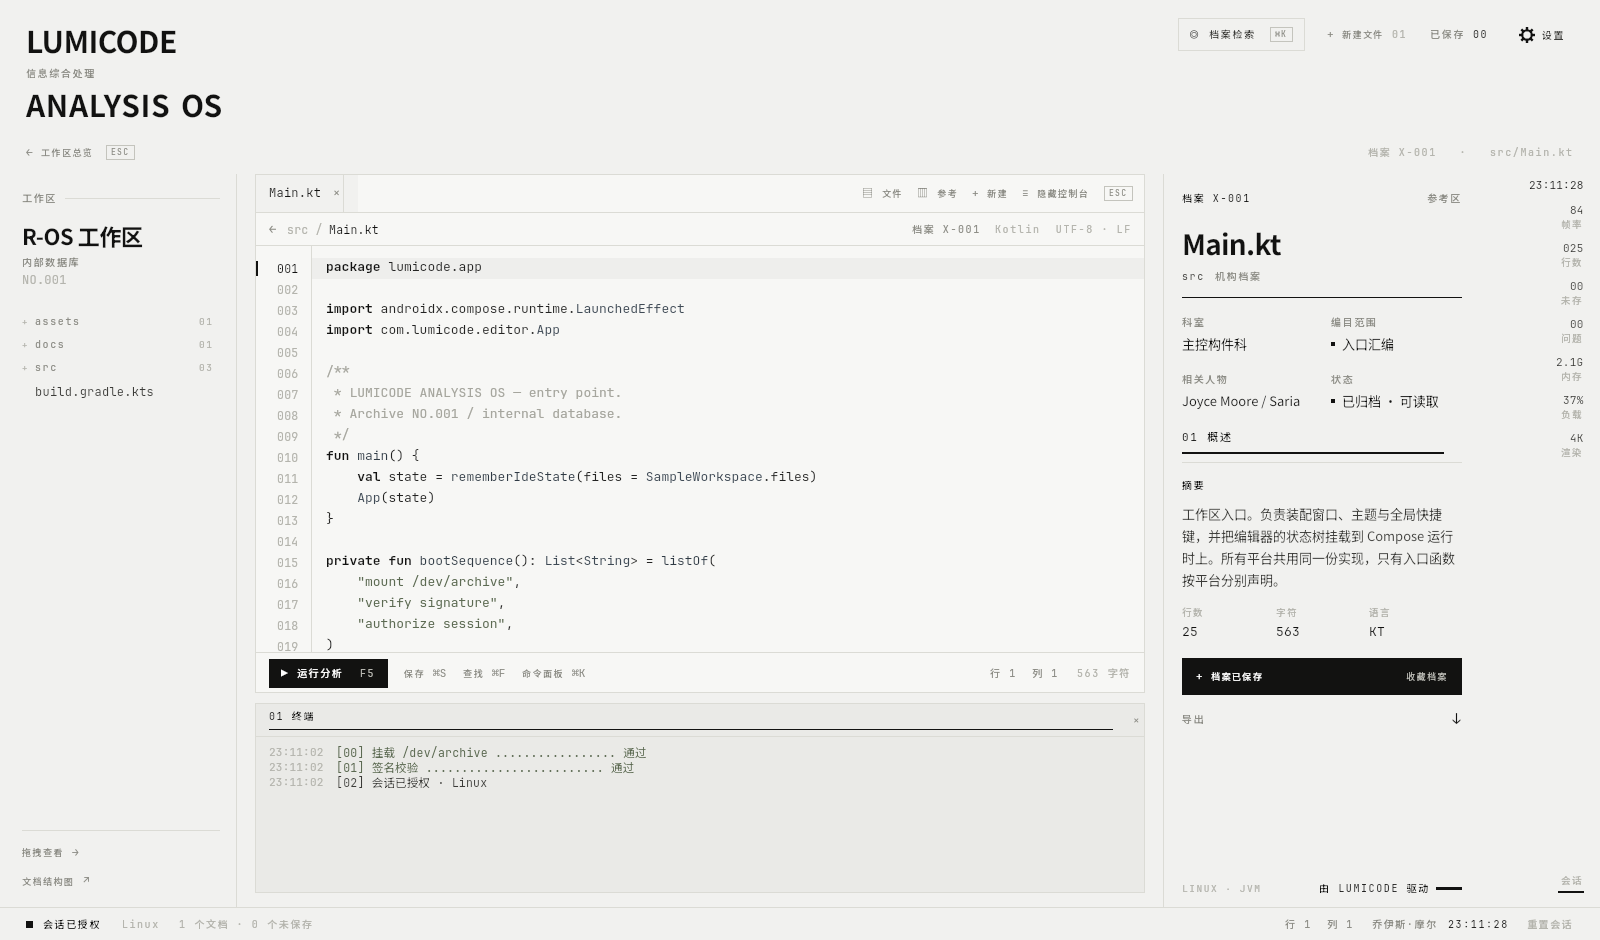
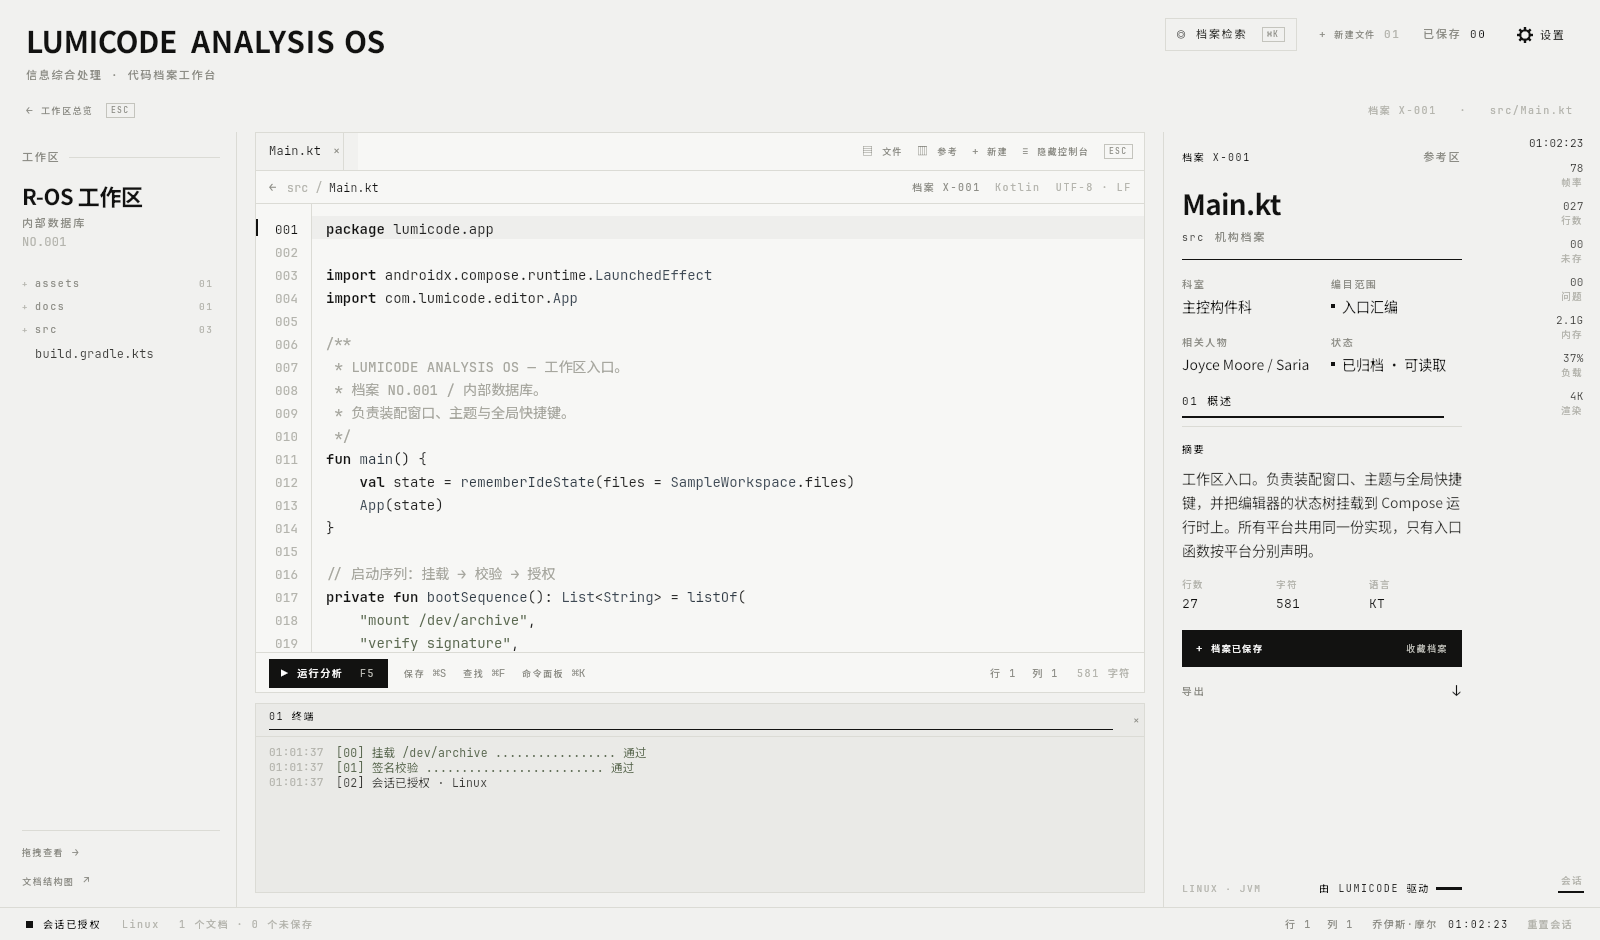
fix(ui): 行高亮内代码垂直居中、方向键越界自动滚动、字号再上调、双标题同行
1. 代码行在行框内居中（LineHeightStyle.Alignment.Center，行号栏同步）——
   之前行高(字号+9)大于字体自身行高时，字形贴行框上沿，看起来像上对齐
2. 光标被上下键/输入移出可视区时自动滚动，光标行始终可见
3. 字号整体再上调一档：代码默认 14sp（可调 12–22sp）、标签 11sp、等宽 13sp、
   遥测栏 12sp、状态栏 11sp、正文 14sp
4. 报头两个大标题合并为同一行 LUMICODE ANALYSIS OS（窄屏同步收窄间距）
5. publish-web.sh 补齐会话总线变量，非登录 shell 下也能重启用户服务
6. 文档截图全部按新样式重拍

diff --git a/composeApp/src/commonMain/kotlin/com/lumicode/editor/ui/TopBar.kt b/composeApp/src/commonMain/kotlin/com/lumicode/editor/ui/TopBar.kt
@@ -53,29 +53,36 @@ fun TopBar(
         verticalAlignment = Alignment.Top,
     ) {
         Column {
-            BasicText(
-                text = "LUMICODE",
-                style = RlType.title.copy(fontSize = if (compact) 22.sp else 30.sp, lineHeight = if (compact) 22.sp else 30.sp),
-            )
-            if (!compact) {
-                Spacer(Modifier.height(6.dp))
-                Label("信息综合处理")
-            }
-            Spacer(Modifier.height(2.dp))
+            // 两个标题放在同一行：LUMICODE ANALYSIS OS
             Row(verticalAlignment = Alignment.Bottom) {
+                BasicText(
+                    text = "LUMICODE",
+                    style = RlType.title.copy(
+                        fontSize = if (compact) 19.sp else 30.sp,
+                        lineHeight = if (compact) 21.sp else 31.sp,
+                    ),
+                )
+                HGap(if (compact) 7.dp else 14.dp)
                 BasicText(
                     text = "ANALYSIS",
                     style = RlType.title.copy(
-                        fontSize = if (compact) 22.sp else 30.sp,
-                        lineHeight = if (compact) 22.sp else 30.sp,
+                        fontSize = if (compact) 19.sp else 30.sp,
+                        lineHeight = if (compact) 21.sp else 31.sp,
                         letterSpacing = 0.02.em,
                     ),
                 )
-                HGap(if (compact) 6.dp else 10.dp)
+                HGap(if (compact) 4.dp else 8.dp)
                 BasicText(
                     text = "OS",
-                    style = RlType.title.copy(fontSize = if (compact) 22.sp else 30.sp, lineHeight = if (compact) 22.sp else 30.sp),
+                    style = RlType.title.copy(
+                        fontSize = if (compact) 19.sp else 30.sp,
+                        lineHeight = if (compact) 21.sp else 31.sp,
+                    ),
                 )
+            }
+            if (!compact) {
+                Spacer(Modifier.height(7.dp))
+                Label("信息综合处理 · 代码档案工作台")
             }
         }
 
@@ -99,25 +106,27 @@ fun TopBar(
                 BasicText("◎", style = RlType.mono.copy(fontSize = 13.sp, color = RlColors.Ink))
                 if (!compact) {
                     HGap(10.dp)
-                    Label("档案检索", style = RlType.label(10.sp, RlColors.InkSoft))
+                    Label("档案检索", style = RlType.label(11.sp, RlColors.InkSoft))
+                    HGap(14.dp)
+                    Chip(text = "⌘K")
                 }
-                HGap(14.dp)
-                Chip(text = "⌘K")
             }
             HGap(if (compact) 14.dp else 22.dp)
             GhostButton(text = if (compact) "" else "新建文件", glyph = "+", onClick = { state.newFile() })
-            HGap(8.dp)
-            LabelRaw(
-                text = state.openTabs.size.toString().padStart(2, '0'),
-                style = RlType.label(10.sp, RlColors.Faint),
-            )
+            if (!compact) {
+                HGap(8.dp)
+                LabelRaw(
+                    text = state.openTabs.size.toString().padStart(2, '0'),
+                    style = RlType.label(11.sp, RlColors.Faint),
+                )
+            }
             if (!compact) {
                 HGap(22.dp)
-                LabelRaw(text = "已保存", style = RlType.label(10.sp, RlColors.Muted))
+                LabelRaw(text = "已保存", style = RlType.label(11.sp, RlColors.Muted))
                 HGap(8.dp)
                 LabelRaw(
                     text = state.savedCount.toString().padStart(2, '0'),
-                    style = RlType.label(10.sp, RlColors.Ink),
+                    style = RlType.label(11.sp, RlColors.Ink),
                 )
             }
             HGap(if (compact) 14.dp else 22.dp)
@@ -135,7 +144,7 @@ fun TopBar(
                 GearIcon(size = 16.dp)
                 if (!compact) {
                     HGap(7.dp)
-                    Label("设置", style = RlType.label(10.sp, RlColors.InkSoft))
+                    Label("设置", style = RlType.label(11.sp, RlColors.InkSoft))
                 }
             }
         }

diff --git a/composeApp/src/commonMain/kotlin/com/lumicode/editor/ui/theme/RhineTheme.kt b/composeApp/src/commonMain/kotlin/com/lumicode/editor/ui/theme/RhineTheme.kt
@@ -6,6 +6,7 @@ import androidx.compose.runtime.setValue
 import androidx.compose.ui.graphics.Color
 import androidx.compose.ui.text.TextStyle
 import androidx.compose.ui.text.font.FontFamily
+import androidx.compose.ui.text.style.LineHeightStyle
 import androidx.compose.ui.text.font.FontWeight
 import androidx.compose.ui.unit.Dp
 import androidx.compose.ui.unit.TextUnit
@@ -47,14 +48,14 @@ object RlColors {
  */
 object RlSettings {
     /** 代码字号（sp），行高按它推算，保证行号与代码对齐。 */
-    var codeFontSize by mutableStateOf(13f)
+    var codeFontSize by mutableStateOf(14f)
     var tabWidth by mutableStateOf(4)
     var showLineNumbers by mutableStateOf(true)
     var showRail by mutableStateOf(true)
 
-    val codeLineHeight: Dp get() = (codeFontSize + 8f).dp
+    val codeLineHeight: Dp get() = (codeFontSize + 9f).dp
 
-    fun lineHeightSp(): Float = codeFontSize + 8f
+    fun lineHeightSp(): Float = codeFontSize + 9f
 }
 
 /**
@@ -102,8 +103,8 @@ object RlType {
     val body: TextStyle get() = TextStyle(
         fontFamily = Display,
         fontWeight = FontWeight.Normal,
-        fontSize = 13.sp,
-        lineHeight = 22.sp,
+        fontSize = 14.sp,
+        lineHeight = 24.sp,
         letterSpacing = 0.0.em,
         color = RlColors.InkSoft,
     )
@@ -111,13 +112,13 @@ object RlType {
     val bodySmall: TextStyle get() = TextStyle(
         fontFamily = Display,
         fontWeight = FontWeight.Normal,
-        fontSize = 11.5.sp,
-        lineHeight = 18.sp,
+        fontSize = 12.5.sp,
+        lineHeight = 19.sp,
         color = RlColors.InkSoft,
     )
 
     /** Micro label: uppercase, wide tracking, monospace — used everywhere as chrome. */
-    fun label(size: TextUnit = 10.sp, color: Color = RlColors.Muted) = TextStyle(
+    fun label(size: TextUnit = 11.sp, color: Color = RlColors.Muted) = TextStyle(
         fontFamily = Mono,
         fontWeight = FontWeight.Medium,
         fontSize = size,
@@ -129,7 +130,7 @@ object RlType {
     val value: TextStyle get() = TextStyle(
         fontFamily = Display,
         fontWeight = FontWeight.Medium,
-        fontSize = 13.sp,
+        fontSize = 14.sp,
         lineHeight = 16.sp,
         letterSpacing = 0.0.em,
         color = RlColors.Ink,
@@ -138,8 +139,8 @@ object RlType {
     val mono: TextStyle get() = TextStyle(
         fontFamily = Mono,
         fontWeight = FontWeight.Normal,
-        fontSize = 12.sp,
-        lineHeight = 17.sp,
+        fontSize = 13.sp,
+        lineHeight = 19.sp,
         letterSpacing = 0.02.em,
         color = RlColors.InkSoft,
     )
@@ -147,8 +148,8 @@ object RlType {
     val monoMicro: TextStyle get() = TextStyle(
         fontFamily = Mono,
         fontWeight = FontWeight.Normal,
-        fontSize = 10.sp,
-        lineHeight = 13.sp,
+        fontSize = 11.sp,
+        lineHeight = 15.sp,
         letterSpacing = 0.04.em,
         color = RlColors.Faint,
     )
@@ -158,6 +159,10 @@ object RlType {
         fontWeight = FontWeight.Normal,
         fontSize = RlSettings.codeFontSize.sp,
         lineHeight = RlSettings.lineHeightSp().sp,
+        lineHeightStyle = LineHeightStyle(
+            alignment = LineHeightStyle.Alignment.Center,
+            trim = LineHeightStyle.Trim.None,
+        ),
         letterSpacing = 0.0.em,
         color = RlColors.CodeDefault,
     )
@@ -167,6 +172,10 @@ object RlType {
         fontWeight = FontWeight.Normal,
         fontSize = (RlSettings.codeFontSize - 1.5f).sp,
         lineHeight = RlSettings.lineHeightSp().sp,
+        lineHeightStyle = LineHeightStyle(
+            alignment = LineHeightStyle.Alignment.Center,
+            trim = LineHeightStyle.Trim.None,
+        ),
         letterSpacing = 0.02.em,
         color = RlColors.Faint,
     )

diff --git a/composeApp/src/commonMain/kotlin/com/lumicode/editor/ui/CodeEditor.kt b/composeApp/src/commonMain/kotlin/com/lumicode/editor/ui/CodeEditor.kt
@@ -140,6 +140,20 @@ fun CodeEditor(
 
         val activeLine = SyntaxHighlighter.lineOf(value.text, value.selection.start) + 1
 
+        // 上下键（或输入）把光标移出可视区时自动滚动，保证光标行始终可见
+        val cursorLineIndex = SyntaxHighlighter.lineOf(value.text, value.selection.start)
+        val viewportHeightPx = with(density) { maxHeight.toPx() }
+        LaunchedEffect(cursorLineIndex, viewportHeightPx) {
+            val top = cursorLineIndex * lineHeightPx
+            val bottom = top + lineHeightPx
+            val scroll = verticalScroll.value.toFloat()
+            when {
+                top < scroll -> verticalScroll.scrollTo(top.toInt().coerceAtLeast(0))
+                bottom > scroll + viewportHeightPx ->
+                    verticalScroll.scrollTo((bottom - viewportHeightPx).toInt().coerceAtLeast(0))
+            }
+        }
+
         // 光标移动时：行高亮带与侧边标记平滑滑过去，而不是瞬间跳
         val lineOffset by animateDpAsState(
             targetValue = lineHeight * (activeLine - 1),

diff --git a/composeApp/src/commonMain/kotlin/com/lumicode/editor/ui/Overlay.kt b/composeApp/src/commonMain/kotlin/com/lumicode/editor/ui/Overlay.kt
@@ -380,8 +380,8 @@ private fun SettingsOverlay(state: IdeState, compact: Boolean) {
         StepperRow(
             label = "代码字号",
             hint = "当前 ${RlSettings.codeFontSize.toInt()} sp（行高自动跟随）",
-            onMinus = { RlSettings.codeFontSize = (RlSettings.codeFontSize - 1f).coerceAtLeast(11f) },
-            onPlus = { RlSettings.codeFontSize = (RlSettings.codeFontSize + 1f).coerceAtLeast(11f).coerceAtMost(20f) },
+            onMinus = { RlSettings.codeFontSize = (RlSettings.codeFontSize - 1f).coerceAtLeast(12f) },
+            onPlus = { RlSettings.codeFontSize = (RlSettings.codeFontSize + 1f).coerceAtLeast(12f).coerceAtMost(22f) },
         )
         ChoiceRow(
             label = "制表符宽度",

diff --git a/README.md b/README.md
@@ -53,6 +53,11 @@
 - **键盘焦点**：点击界面任意位置都会把键盘焦点交回外壳，避免某些情况下快捷键/ESC 失灵（浏览器端尤其明显）。
 - **动效**：光标换行时，当前行高亮带与左侧行号栏的高亮标记会用 140ms 的缓动滑过去；
   查找跳转 / 大纲跳转用的是平滑滚动。
+- **光标可见性**：上下方向键（或输入）把光标移出可视区时自动滚动，光标行始终留在框内；
+  行高亮带按 `LineHeightStyle.Alignment.Center` 在行框内垂直居中，
+  行高比字形高时不会出现「代码贴上边」。
+- **字号**：代码默认 14sp（设置页 12–22sp 可调，行高自动跟随），
+  标签/状态栏/遥测栏在 11–13sp，都对齐到「文件名」那一档的可读性。
 
 ### 自适应：桌面宽屏 / 手机窄屏
 
@@ -69,7 +74,8 @@
 [文档内查找](docs/screenshots/04-find-in-document.png) ·
 [分析流程](docs/screenshots/05-analysis-pass.png) ·
 [设置页](docs/screenshots/06-settings.png) ·
-[工作区总览](docs/screenshots/07-workspace-overview.png)。
+[工作区总览](docs/screenshots/07-workspace-overview.png) ·
+[行高亮细节](docs/screenshots/10-line-highlight-detail.png)。
 
 ---
 
